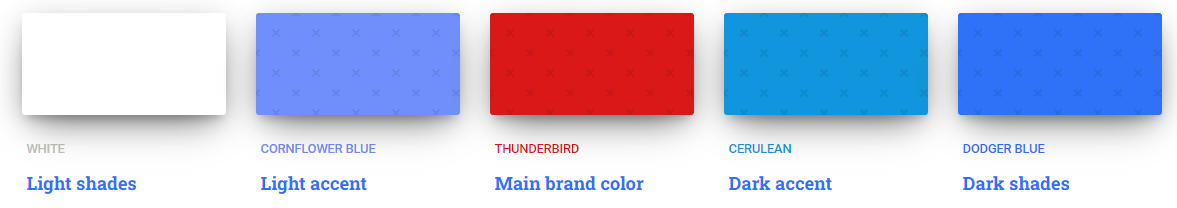
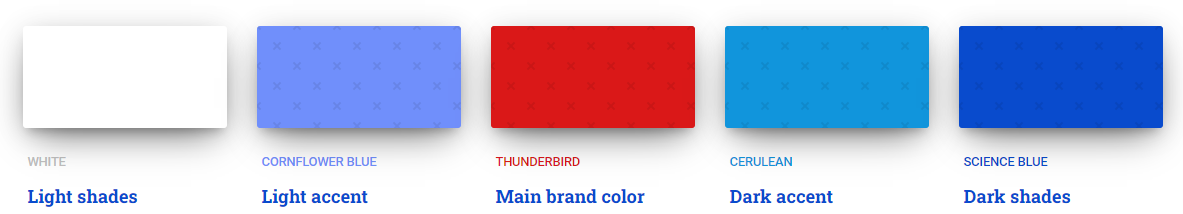
update images and text in color section

diff --git a/README.md b/README.md
@@ -123,10 +123,10 @@ The font awesome library will be used throughout the site for social media links
 The inspiration for the colours was taken from the red, white, and blue of a traditional barber’s bar. I used the website colourmind to aid me with the selection of the specific colour scheme. I tested the colours I originally selected on the WebAIM contract checker, and it failed the test, this can be seen here. To improve the contrast ratio, I adjusted the colours manually until the test past, the final colours which passed the test can be seen here. 
 
 * FFFFFF - Background colour and font colour for inverted styles                          
-* 708FFB - Used for content with an inverted colour scheme i.e form, steps to book etc.
+* #0A4BCD - background color for content with an inverted colour scheme i.e form, steps to book etc. and font color for body
 * DA1818 - Used for buttons and to highlight active links
-* 1295DC - Not used
-* 3071F7 - Not used  
+* 0439fb - Not used
+* 708ffb - Not used  
 
 ![Cheap Chopping Chops logo](assets/images/readme/color-scheme.png)
 
